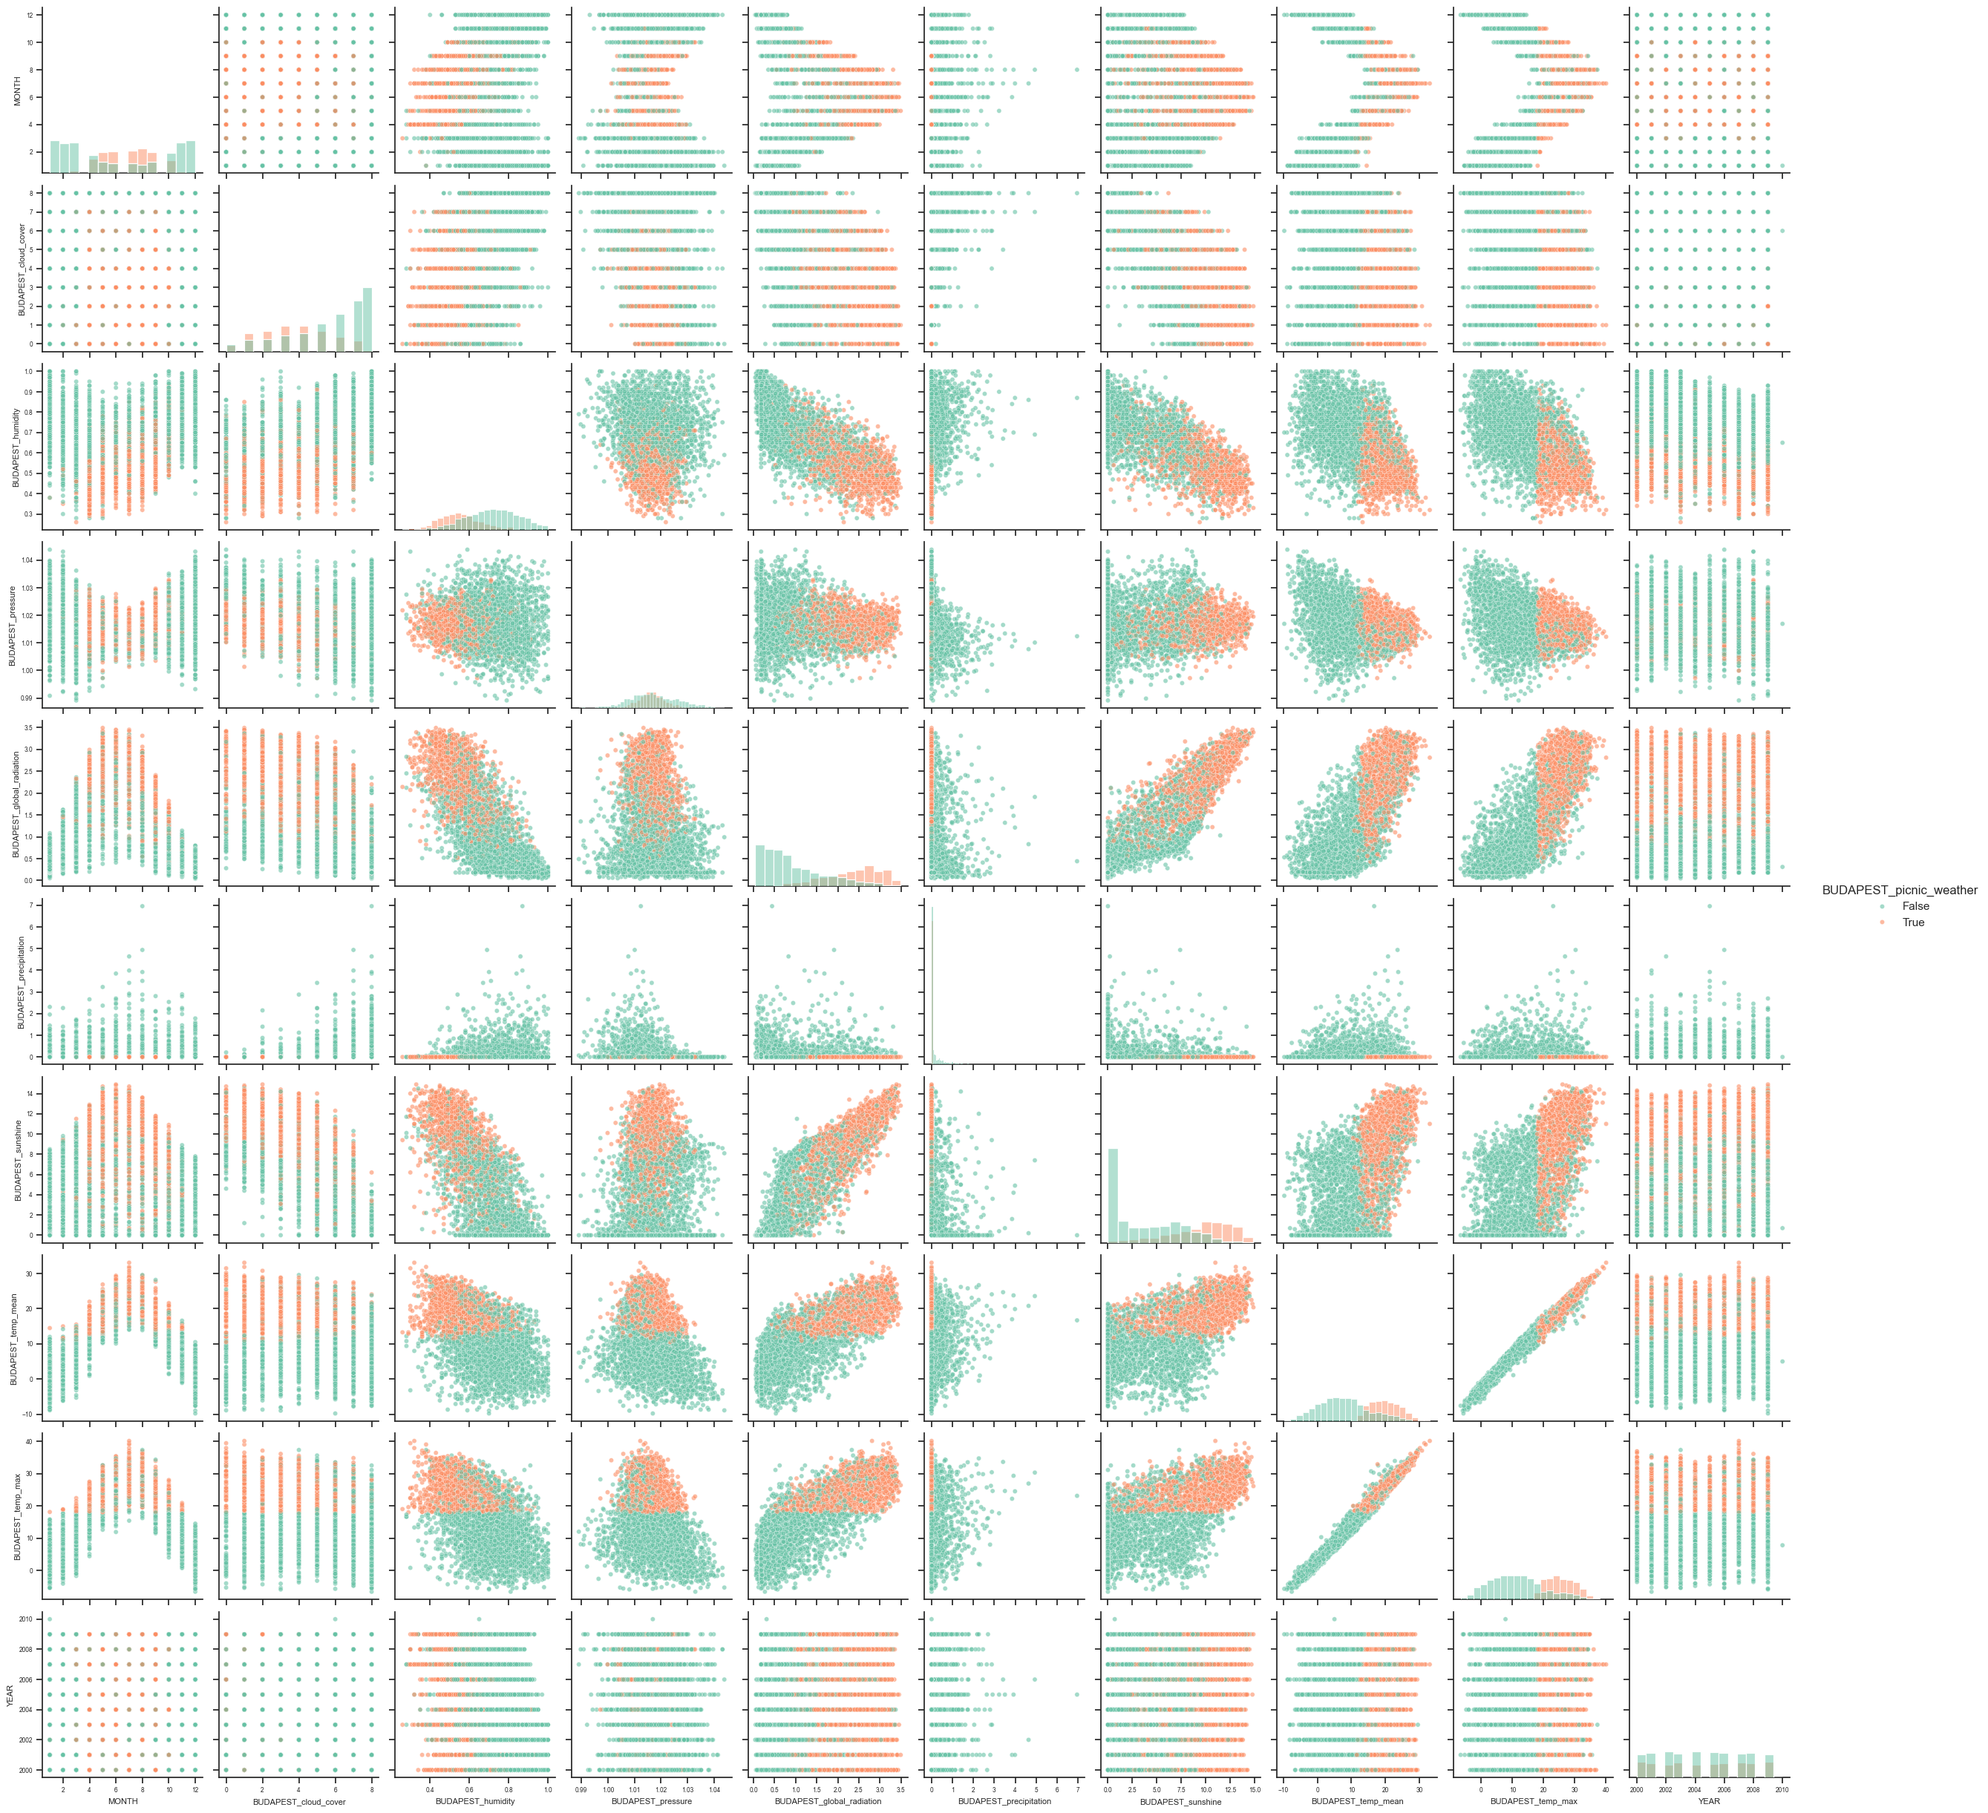
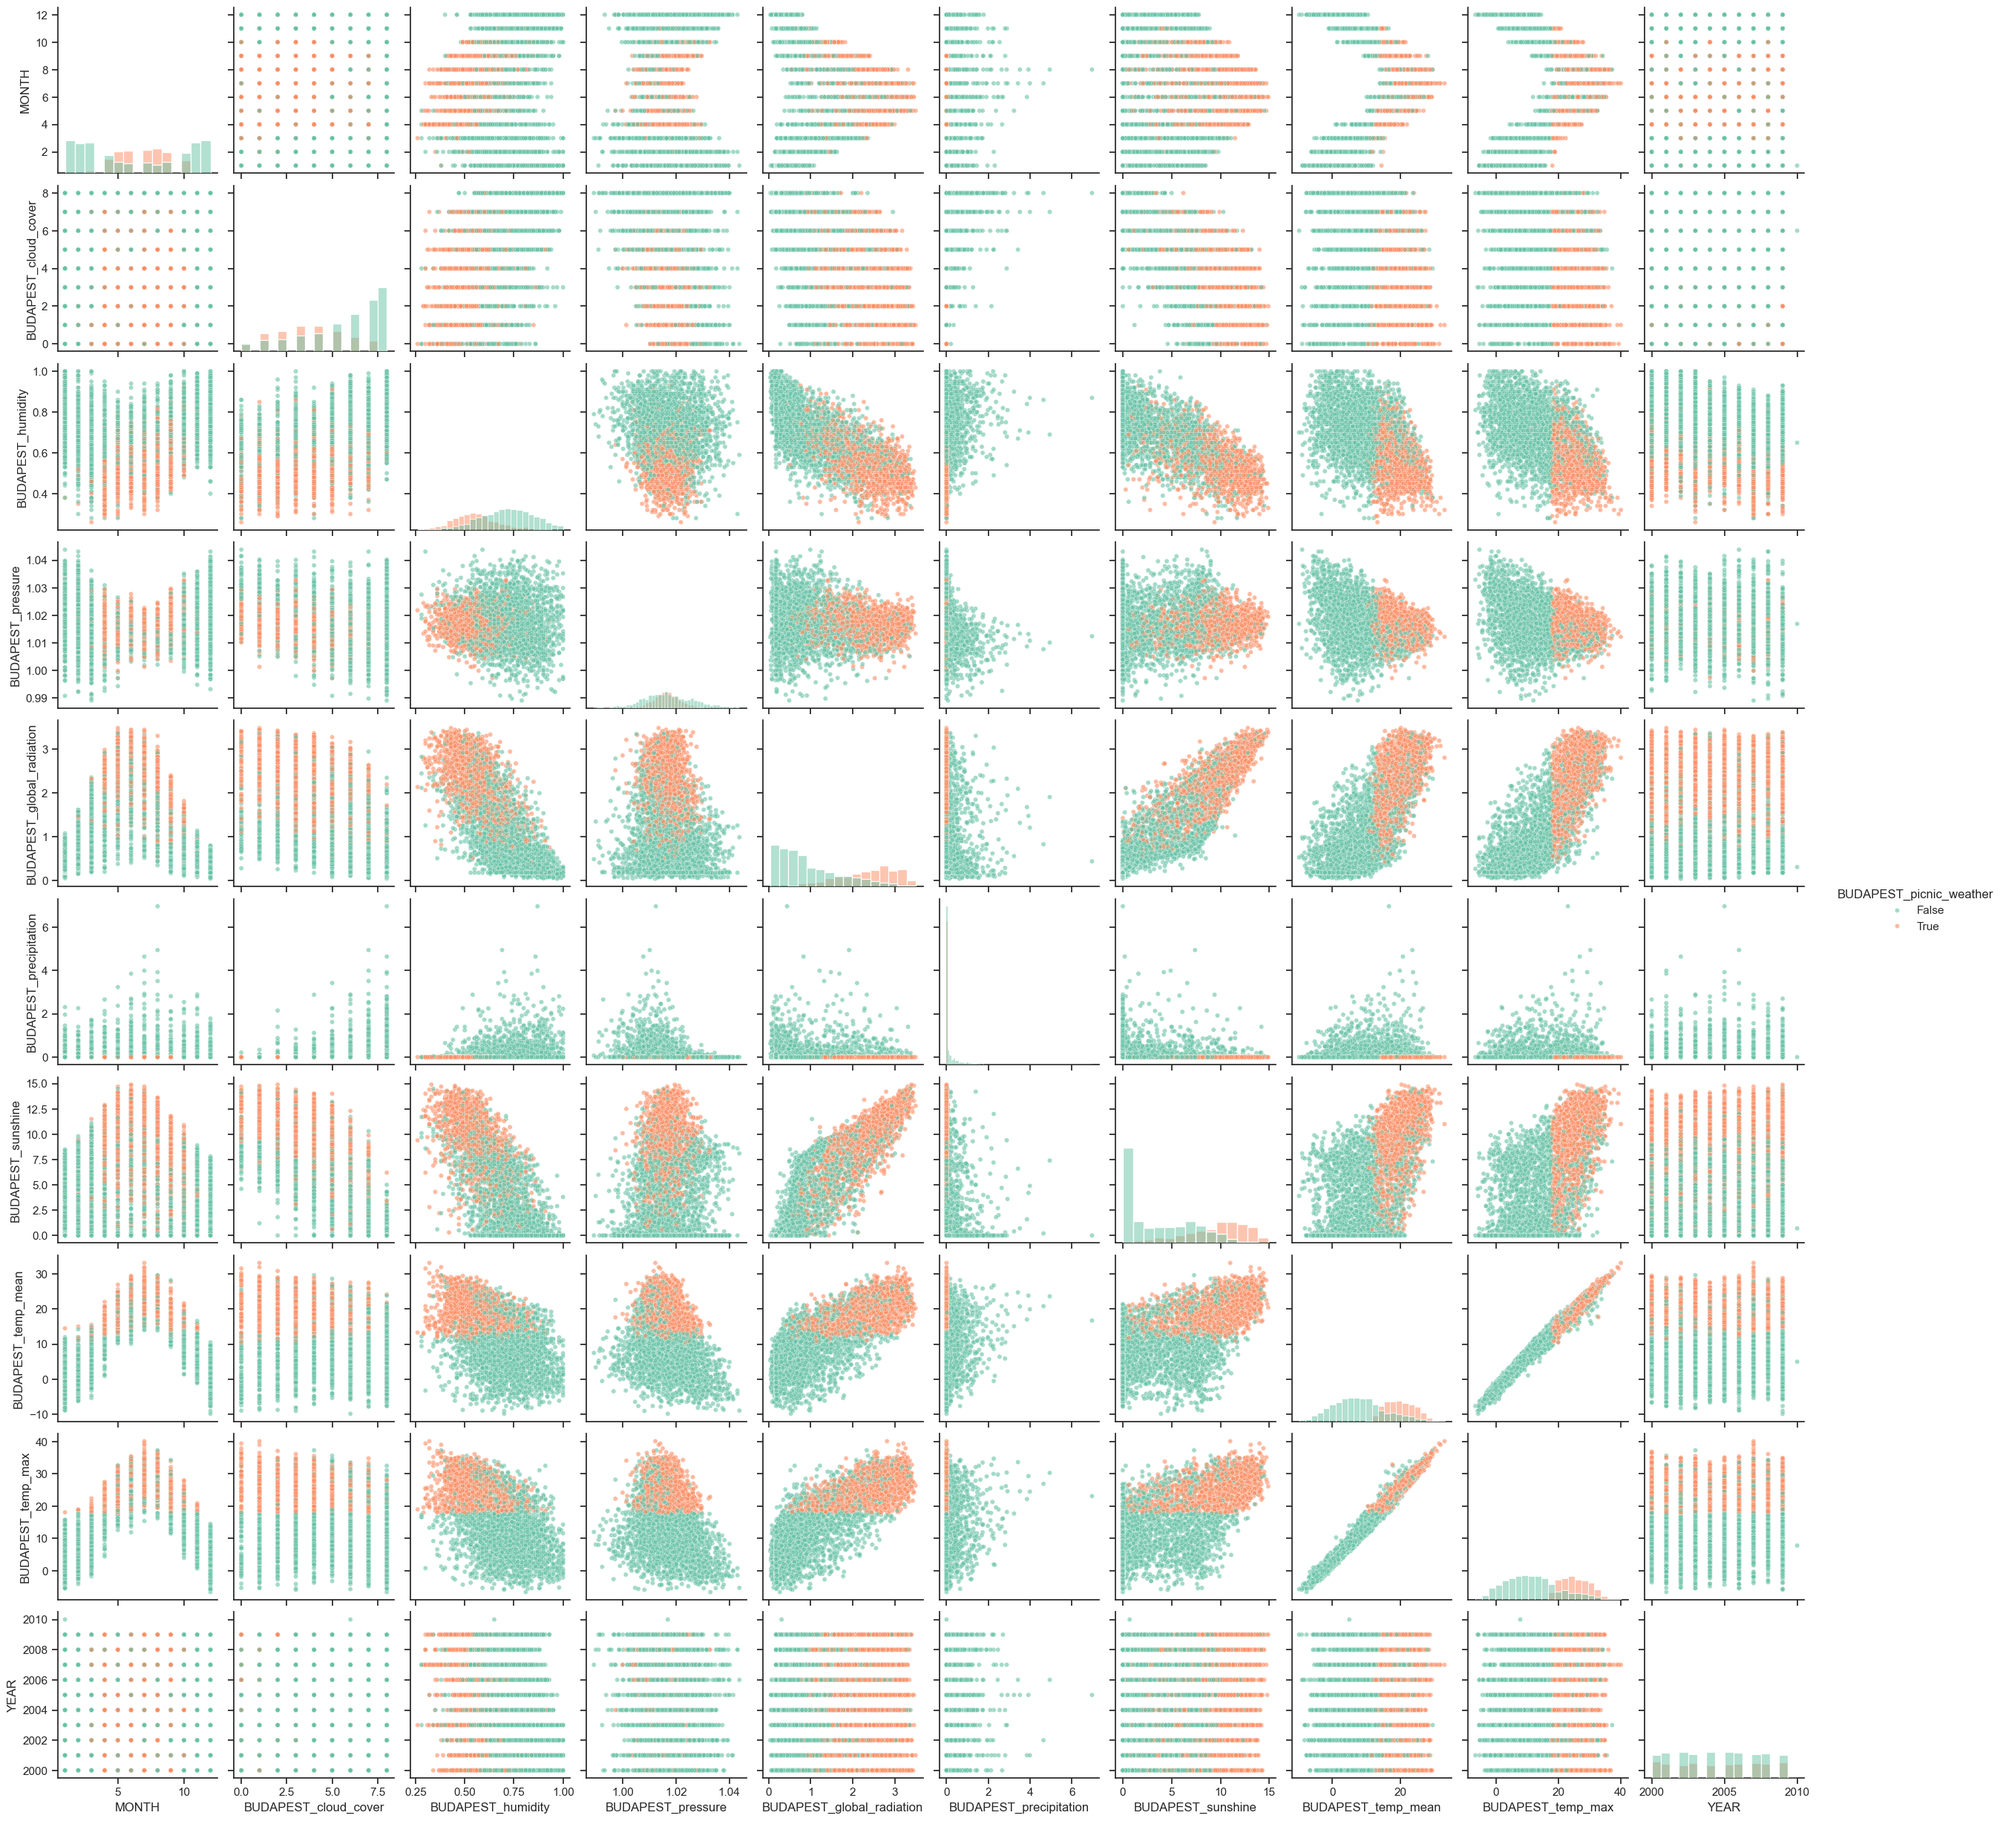
adding binary desicion tree function with training, testing, depth optimization and creation of pngs that show depth optimization graph as well as final binary tree

Changed region(s): [[0.0, 0.0, 0.8988, 0.9955], [0.7438, 0.0, 0.7748, 0.0311]]

diff --git a/utilities.py b/utilities.py
@@ -7,6 +7,11 @@ from sklearn.metrics import confusion_matrix, accuracy_score, precision_score, r
 import pandas as pd
 from imblearn.over_sampling import SMOTE
 import seaborn as sns
+from sklearn.tree import DecisionTreeClassifier
+from sklearn.model_selection import train_test_split
+from sklearn.metrics import accuracy_score
+import matplotlib.pyplot as plt
+from sklearn.tree import plot_tree
 
 
 def load_data(filepath):
@@ -45,6 +50,8 @@ def data_counter(data, predictand):
 
     return percentage_true_data_points
 
+        
+
 def preprocessing(data, predictand_name):
     """
     Visualizes raw data before any analysis as an important step prior to analysis.
@@ -55,32 +62,26 @@ def preprocessing(data, predictand_name):
     y = data[predictand_name]
     features = data.drop(columns=predictand_name)  # features only
  
-    # print("Creating pairplot...")
+    print("Creating pairplot...")
 
-    # sns.set_theme(style="ticks")  # nicer style
-    # pairplot = sns.pairplot(
-    #     pd.concat([features, y], axis=1),
-    #     hue=predictand,
-    #     palette='Set2',
-    #     markers='o',
-    #     plot_kws={'s': 20, 'alpha': 0.6},
-    #     diag_kind='hist'
-    # )
+    sns.set_theme(style="ticks")  # nicer style
+    pairplot = sns.pairplot(
+        pd.concat([features, y], axis=1),
+        hue=predictand_name,
+        palette='Set2',
+        markers='o',
+        plot_kws={'s': 20, 'alpha': 0.6},
+        diag_kind='hist'
+    )
 
-    # # Reduce font size of x and y labels
-    # for ax in pairplot.axes.flatten():
-    #     ax.xaxis.label.set_size(8)   # X-axis label
-    #     ax.yaxis.label.set_size(8)   # Y-axis label
-    #     ax.tick_params(axis='both', labelsize=6)  # tick labels
-        
-    # # Save figure
-    # pairplot.savefig("figures/pairplot.png")
-    # plt.close()
+    # Save figure
+    pairplot.savefig("figures/pairplot.png")
+    plt.close()
         
     # Compute percentage of True values in target
     percentage_true_data_points = data_counter(features, y)
     
-    return percentage_true_data_points, data, y
+    return percentage_true_data_points, features, y
 
 
 def confusion_matrix(actual, predicted):
@@ -118,12 +119,12 @@ def logistic_regression(data, predictand):
     # Call confusion_matrix function
     acc, prec, rec, f1 = confusion_matrix(y_test, y_pred)
 
-    return rec
+    return model, rec
 
 
 
 def smote(data, predictand):
-        #drop or feature engineer, smote
+
 
     old_percentage_true_data_points = data_counter(data, predictand)
 
@@ -138,10 +139,53 @@ def smote(data, predictand):
     return x_smoted, y_smoted
 
 
-# def decision_tree():
+def decision_tree(data, predictand):
 
-# def random_forest():
-#     """
-#     creates a random forest model to predict whether
-#     a certain day is picni-able
-#     """
+    X_train, X_test, y_train, y_test = train_test_split( #creating testing training chunks
+        data, predictand, test_size=0.2, random_state=42
+    )
+
+    depths = range(1, 21) #creating a list of potential depths
+    train_scores = [] #creating lists to store resulting scores for comparison and depth shortlisting purposes
+    test_scores = []
+
+    for depth in depths: #training model with each depth
+        model = DecisionTreeClassifier(max_depth=depth, random_state=42)
+        model.fit(X_train, y_train)
+
+        y_train_pred = model.predict(X_train)
+        y_test_pred = model.predict(X_test)
+
+        train_scores.append(accuracy_score(y_train, y_train_pred))
+        test_scores.append(accuracy_score(y_test, y_test_pred))
+
+    plt.plot(depths, train_scores, label="Train Accuracy") #plotting graph of depth vs accuracy
+    plt.plot(depths, test_scores, label="Test Accuracy")
+    plt.xlabel("Tree Depth")
+    plt.ylabel("Accuracy")
+    plt.legend()
+    plt.savefig("figures/depth_optimization.png")
+    plt.close()
+
+    best_depth = depths[test_scores.index(max(test_scores))]
+    print("Best depth:", best_depth) #shortlisting best depth, ie best score with least depth
+
+    final_model = DecisionTreeClassifier(max_depth=best_depth, random_state=42)
+    final_model.fit(X_train, y_train) #creating final model off shortlisted depth
+
+    plt.figure(figsize=(20,10)) #plotting final binary desicion tree
+    plot_tree(
+        final_model,
+        feature_names = data.columns,
+        class_names=[str(c) for c in predictand.unique()],
+        filled=True
+    )
+
+    plt.savefig("figures/tree_plot.png")
+    plt.close()
+
+    y_pred = final_model.predict(X_test)
+    acc = accuracy_score(y_test, y_pred) #calculating accuracy
+    
+    return final_model, acc
+

diff --git a/driver.py b/driver.py
@@ -6,29 +6,23 @@ def main(filepath):
     "Loading data..."
     data = util.load_data(filepath) #data is loaded, NA containing rows deleted and new columns created
 
-    predictand_name = 'BUDAPEST_picnic_weather'
+    predictand_name = 'picnic_weather'
 
     #data is checked for balance between classes, and correlation between variables
     #predictand is seperated out
-    percentage_true_data_points, data, predictand = util.preprocessing(data, predictand_name)
-    recall_value = util.logistic_regression(data, predictand)
+    percentage_true_data_points, data, predictand = util.preprocessing(data, predictand_name) #bimary class count is calculated
+    logistic_model, recall_value = util.logistic_regression(data, predictand) #logistic regression
     
-    if (percentage_true_data_points > 60 or percentage_true_data_points < 40) or recall_value < 0.7:
+    if (percentage_true_data_points > 60 or percentage_true_data_points < 40) or recall_value < 0.7: #checking whether classes need to be balanced
         data, predictand = util.smote(data, predictand) #synthetic data is created using smote algorithm to balance the classes
         
 
-    # #decision_tree_model = desicion_tree(data)
-    # #random_forest_model = random_forest(data)
+    decision_tree_model, acc = util.decision_tree(data, predictand) #binary desicion tree is modelled
     
+    print("A prediction accuracy of ", acc, "has been achieved.")
+    
+main("data/Picnic_Predictions.csv")
 
-
-main("data/Budapest_Picnic_Prediction.csv")
-
-
-#1 - check data normalacy (like last term)
-#2 - regression (multi-variate?)
-#3 - finding best k value + decision tree
-#4 - fit to a model (simple eg random forest model) (literature review)
 
 
 
